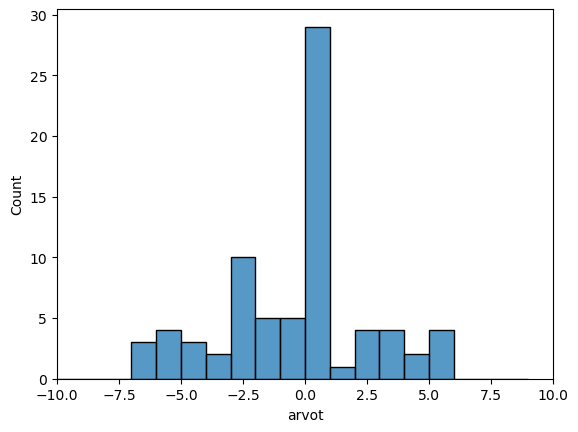
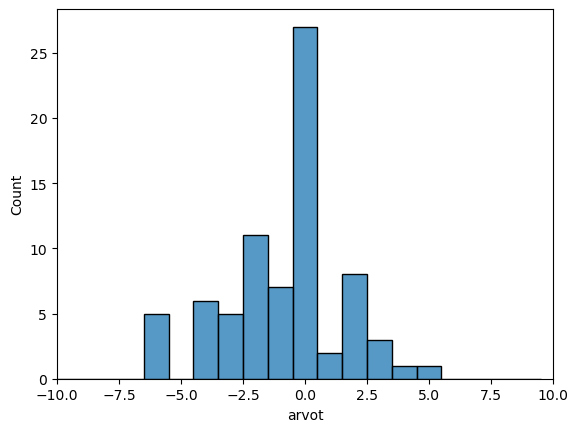
yle3

diff --git a/_pages/year-archive.html b/_pages/year-archive.html
@@ -1,10 +1,11 @@
 ---
 layout: archive
-permalink: /year-archive/
+permalink: /
 title: "Blog posts"
 author_profile: true
 redirect_from:
   - /wordpress/blog-posts/
+  - /year-archive/
 ---
 
 {% include base_path %}

diff --git a/_posts/2025-6-30-ylen-uutisointi.md b/_posts/2025-6-30-ylen-uutisointi.md
@@ -9,13 +9,16 @@ tags:
   - arvot
 ---
 
-Ylen uutisointia on toisinaan arvosteltu vihervasemistolaiseksi ja liian arvoliberaaliksi. Tätä voi analysoida melko neutraalisti suurella kielimallilla. 
+Ylen uutisointia on toisinaan arvosteltu vihervasemistolaiseksi ja liian arvoliberaaliksi. Mutta onko näin? Tätä voi analysoida melko neutraalisti suurella kielimallilla. 
+
+![YLEn uutisten poliittisuuden jakauma](/images/YLE/jakauma.png)<br>
+_Kuvio 1. YLEn uutisten yhteisjakauma._
 
 1 Menetelmä ja aineisto
 ===
 
 Suurella kielimallilla voi luokitella kirjotuksia. Tässä käytetään Anthropicin Claude Opus 4.0 -mallia.
-Tarkastelemme 83 uutista YLEn verkkosivuilla, jotka haettiin scraperilla. Aineistosta on poistettu 7 uutista, joita scraper ei onnistunut keräämään kunnolla (pääosin vain otsikko tuli mukaan ja varsinainen teksti jäi pois). Lisäksi yhdessä tapauksessa (numero 11) Claude ei osannut tuottaa numeerista arviota.
+Tarkastelemme 83 uutista YLEn verkkosivuilla, jotka haettiin scraperilla. Aineistosta on poistettu 6 uutista, joita scraper ei onnistunut keräämään kunnolla (pääosin vain otsikko tuli mukaan ja varsinainen teksti jäi pois). Lisäksi yhdessä tapauksessa (numero 11) Claude ei osannut tuottaa numeerista arviota.
 Aineisto ja tulokset ovat liitteenä blogin lopussa.
 
 Promptit, joita analyysissä on käytetty ovat kaikessa yksinkertaisuudessaan tällainen (mitään muuta promptia ei analyysissä käytetä):
@@ -32,24 +35,21 @@ Jokaista tekstiä varten keskustelu avataan uudestaan, jotta aiemmat vastaukset 
 2 Arvot ja poliittisuus
 ===
 
-Kirjoitusten arvojen keskiarvo on -1,45 ja mediaani -0,5. Asteikko on -10 -- +10, joten keskimäärin kirjoitusten arvot ovat lähellä neutraalia, vaikka ne painottuvat arvoliberaaliin suuntaan.
+Kirjoitusten arvojen keskiarvo on -0,84 ja mediaani 0,0. Asteikko on -10 -- +10, joten keskimäärin kirjoitusten arvot ovat lähellä neutraalia, vaikka ne painottuvat arvoliberaaliin suuntaan.
 
 ![YLEn uutisten arvojen jakauma](/images/YLE/arvot.png)<br>
-_Kuvio 1. YLEn uutisten arvojen jakauma._
+_Kuvio 2. YLEn uutisten arvojen jakauma._
 
-Arvojen jakauma painottuu arvoliberaaliin suuntaan.
+Arvojen jakauma painottuu arvoliberaaliin suuntaan. Kuitenkin selvästi arvokonservatiivisia havaintoja on myös joukossa.
 
 ![YLEn uutisten poliittisuuden jakauma](/images/YLE/poliittinen.png)<br>
-_Kuvio 2. YLEn uutisten poliittisuuden jakauma._
+_Kuvio 3. YLEn uutisten poliittisuuden jakauma._
 
-Kirjoitusten poliittisen näkökulman keskiarvo on -1,45 ja mediaani -0,5. Asteikko on -10 -- +10, joten keskimäärin kirjoitusten arvot ovat lähellä neutraalia, vaikka ne painottuvat arvoliberaaliin suuntaan.
+Kirjoitusten poliittisen näkökulman keskiarvo on -0,63 ja mediaani 0,0. Asteikko on -10 -- +10, joten keskimäärin kirjoitusten arvot ovat lähellä neutraalia, vaikka ne painottuvat arvoliberaaliin suuntaan.
 
 Poliittisten näkökulmien jakauma painottuu vasemmistoon.
 
-![YLEn uutisten poliittisuuden jakauma](/images/YLE/jakauma.png)<br>
-_Kuvio 3. YLEn uutisten yhteisjakauma._
-
-Arvojen ja polittiisen näkökulman Yhteisjakauma...
+Arvojen ja polittiisen näkökulman Yhteisjakauma (Kuvio 1) näyttää että suurin osa uutisista on vasemmisto/arvoliberaali - oikeisto/arvokonservatismi -akselilla. Yhteisjakaumassa on vähän havaintoja oikeisto/arvoliberaali -neljänneksestä tai vasemmisto/arvokonservatiivi -neljänneksestä. Tämä sama ilmiö näkyy vaalien yhteydessä tehdyissä ehdokkaiden arvokartoissa.
 
 3 Esimerkkejä tuloksista
 ===
@@ -57,7 +57,7 @@ Arvojen ja polittiisen näkökulman Yhteisjakauma...
 3.1 Sudenmetsästys
 ==
 
-Esimerkiksi sudenmetsästyksestä kertovat juttu (https://yle.fi/a/74-20165944) arvioidaan arvokonservatiiviseksi (+5) ja lievästi oikeistolaiseksi (+3), koska 
+Sudenmetsästyksestä kertova juttu (https://yle.fi/a/74-20165944) arvioidaan arvokonservatiiviseksi (+5) ja lievästi oikeistolaiseksi (+3).
 
 > Kirjoitus käsittelee sudenmetsästyksen mahdollistamista, mikä heijastaa jossain määrin arvokonservatiivista näkemystä, jossa korostetaan ihmisen oikeutta hallita luontoa ja maaseudun elinkeinojen suojelua. Teksti on kuitenkin neutraalisti muotoiltu, eikä siinä oteta voimakkaasti kantaa suuntaan tai toiseen. Arvoliberaali näkökulma korostaisi todennäköisesti enemmän luonnonsuojelua ja eläinten oikeuksia.
 
@@ -65,26 +65,44 @@ Esimerkiksi sudenmetsästyksestä kertovat juttu (https://yle.fi/a/74-20165944) 
 
 3.2 Vaalirahoitus
 ==
-vastaavasti vaalirahoituksesta kertova juttu (https://yle.fi/a/74-20167070) arvioidaan arvoliberaaliksi (-5) ja vasemmistolaisesta näkökulmasta kirjoitetuksi (-5), koska
+Vaalirahoituksesta kertova juttu (https://yle.fi/a/74-20167070) arvioidaan arvoliberaaliksi (-5) ja vasemmistolaisesta näkökulmasta kirjoitetuksi (-5).
 
 > Kirjoitus on kirjoitettu vasemmistolaisesta näkökulmasta. Tämä näkyy siinä, että oppositiopuolueiden (SDP, Vihreät) kriittiset näkemykset nostetaan keskeisesti esiin, erityisesti Tiina Elon kommentti siitä, että vaalit eivät saa olla rahalla ratkaistava kilpailu. Myös oikeusministeriön ja Transparency Internationalin vastustus mainitaan. Kokoomuksen perustelut muutokselle esitetään lyhyesti ilman syvempää analyysiä, mikä viittaa kriittiseen näkökulmaan hallituksen toimintaa kohtaan.
 
 > Kirjoitus on kirjoitettu arvoliberaalista näkökulmasta, sillä siinä korostetaan poliittisen rahoituksen avoimuutta ja läpinäkyvyyttä. Kirjoituksessa tuodaan kriittisesti esiin ilmoitusrajan nostaminen ja nostetaan esiin opposition ja järjestöjen huolta vaalirahoituksen avoimuuden vähenemisestä. Avoimuuden ja demokraattisen läpinäkyvyyden korostaminen on tyypillisesti arvoliberaali positio.
 
-3.3 Miinat
+3.3 Maamiinat
 ==
 
-- arvot: 4
-- poliittinen suuntaus: 5
+Maamiinakiellosta kertovat juttu (https://yle.fi/a/74-20167477) arvioidaan lievästi arvokonservatiiviseksi (+2) ja näkökulmaltaan maltillisen oikeistolaiseksi (+3).
 
-> Kirjoitus on miltei neutraali uutismaisessa sävyssään, mutta siinä ei kyseenalaisteta miinojen käyttöönottoa humanitääriseltä kannalta. Siitä puuttuvat ihmisoikeusjärjestöjen huolet siviileistä ja vammoista. Vasemmistoliiton ja SPR:n kriittinen kanta mainitaan vain ohimennen. Tämä viittaa arvokonservatiiviseen painotukseen, jossa turvallisuus ja taloudelliset mahdollisuudet menevät humanitääristen näkökohtien edelle.
+> Kirjoitus on arvoulottuvuudeltaan melko neutraali, mutta suhtautuminen jalkaväkimiinojen valmistukseen ja vientiin on pragmaattinen ja elinkeinoelämää korostava. Kirjoituksessa ei ilmene huolta humanitaarisista kysymyksistä tai kansainvälisestä sopimuksesta irtautumisen eettisistä ulottuvuuksista. Vähäinen kriittisyys viittaa lievästi arvokonservatiiviseen näkökulmaan, jossa turvallisuus- ja talousnäkökulmat ohittavat humanitaariset arvot.
 
-> Kirjoitus keskittyy positiivisesti puolustusteollisuuden liiketoimintamahdollisuuksiin ja vientipotentiaaliin. Keskustan edustajan näkemykset esitetään kritiikittä. Tekstissä korostetaan osaamista ja tuotantokykyä, ei työntekijöiden oikeuksia tai sosiaalisia vaikutuksia. Mainehaitat käsitellään lähinnä liiketoiminnallisina riskeinä, ei eettisinä ongelmina. Nämä viittaavat maltilliseen oikeistolaiseen näkökulmaan.
+> Kirjoitus korostaa vientipotentiaalia, yritystoimintaa ja suomalaisen puolustusteollisuuden mahdollisuuksia. Valiokunnan puheenjohtajan (Keskusta) sitaatit edustavat pragmaattista, oikeistoliberaalia näkemystä, jossa korostetaan elinkeinovapautta ja markkinamahdollisuuksia. Vasemmistoliiton kriittinen eriävä mielipide mainitaan vain lyhyesti. Kokonaisuudessaan teksti edustaa maltillista oikeistolaista näkökulmaa, jossa taloudelliset mahdollisuudet painottuvat.
 
-4 Analyysin puutteet
+3.4 Sofia Virta
+==
+
+Sofia Virraste kertova juttu () arvioidaan arvoliberaaliksi (-6) ja selvästi vasemmistolaiseksi (-7).
+
+> Kirjoitus on selkeästi arvoliberaalista näkökulmasta. Tämä näkyy erityisesti Sofia Virtan siteeraamisessa, jossa puhutaan oikeudesta 'rakastaa ketä haluaa' ja liberaalien arvojen puolustamisesta. Lisäksi korostetaan tasa-arvo- ja ihmisoikeuskysymyksiä. Kirjoitus ei kyseenalaista näitä arvoja vaan esittää ne myönteisinä tavoitteina.
+> Kirjoitus on vahvasti vasemmistolainen. Keskeiset teemat ovat hyvinvointivaltion puolustaminen, sosiaaliturvasta ja koulutuksesta leikkaamisen vastustaminen, vihreä verouudistus (ympäristölle haitallisten yritystukien leikkaaminen), sekä hallituksen leikkauspolitiikan kritiikki. Puolustusmenojen nostamista kritisoidaan, koska rahat ovat 'pois muista hyvinvointivaltion palveluista'. Nämä ovat klassisia vasemmistolaisia teemoja.
+
+3.5 Mika Poutala
+==
+
+Mika Poutalasta kertova juttu () arvioidaan arvoneutraaliksi (-6) ja poliittisesti neutraaliksi (-7).
+
+> Teksti on neutraali reportaasi henkilön liikuntaharrastuksista ja ministerinimityksen kuvaus. Siinä ei ole arvovalintoihin viittaavia elementtejä tai kannanottoja yhteiskunnallisiin arvoihin. Keskittyy vain faktojen esittämiseen henkilön taustoista ja tavoista.
+
+> Teksti ei ota kantaa vasemmisto-oikeisto-akseliin liittyviin kysymyksiin. Se on puhdas henkilöön liittyvä faktakuvaus ilman poliittisia kannanottoja tai viittauksia talouspolitiikkaan, hyvinvointivaltioon tai muihin poliittisiin kysymyksiin. Kristillisdemokraattinen puoluetausta mainitaan, mutta sitä ei arvoteta.
+
+4 Analyysistä
 ===
 
-Tämän blogin analyysin ei ole tarkoitus olla kattava. Aineistossa oli vain 83 juttua, joista 76 päätyi lopulliseen analyysiin. Laajempi tutkimus kertoisi paremmin, miten neutraalia Ylen uutisointi on ja paikallistaisi mahdolliset ylilyönnit eri suuntiin. Samaa metodologiaa voi käyttä helposti muihinkin viestintävälineisiin.
+Tämän blogin analyysin ei ole tarkoitus olla kattava. Aineistossa oli vain 83 juttua, joista 76 päätyi lopulliseen analyysiin. Laajempi tutkimus kertoisi paremmin, miten neutraalia Ylen uutisointi on ja paikallistaisi mahdolliset ylilyönnit eri suuntiin. Samaa metodologiaa voi käyttä helposti muihinkin viestintävälineisiin. 
+
+Clauden vastaukset muuttuvat eri ajokerroilla hieman, vaikka promptit ja aineistot pysyvät samoina. Vaihtelu ei kuitenkaan vaikuta oleva kovin suurta.
 
 5 Yhteenveto
 ===
@@ -95,83 +113,84 @@ Onko Ylen uutiskirjoittaminen epäpoliittista ja arvovapaata? Ei, mutta se on ky
 Liite
 ===
 
-
-|    | otsikko                                                                                                                      | Linkki                       |   arvot |   poliittinen suuntaus |
-|---:|:-----------------------------------------------------------------------------------------------------------------------------|:-----------------------------|--------:|-----------------------:|
-|  0 | Päätös eduskunnan pääsihteeri Antti Pelttarin hyllyttämisestä siirtyi ensi keskiviikkoon                                     | https://yle.fi/a/74-20167571 |     1   |                    2   |
-|  1 | Mikko Polvinen ehdolla Perussuomalaisten kolmanneksi varapuheenjohtajaksi                                                    | https://yle.fi/a/74-20167573 |     0   |                    2   |
-|  2 | Valiokunta visioi jalkaväkimiinoista vientituotetta Suomelle                                                                 | https://yle.fi/a/74-20167477 |     5   |                    5   |
-|  3 | SDP:n Tuppurainen: Ryhmä teki päätöksen tukea miinasopimuksesta lähtemistä, ja se sitoo kaikkia edustajia                    | https://yle.fi/a/74-20167519 |     0   |                    0   |
-|  4 | Professori katsoo, että eduskunnan pääsihteeri Antti Pelttari tulisi pidättää virastaan – epäillään virkarikoksista          | https://yle.fi/a/74-20167469 |    -1   |                    0   |
-|  5 | Saamelaislaki repii hallituspuolueiden rivejä, RKP:n Adlercreutz pitää perussuomalaisten irtiottoja valitettavina            | https://yle.fi/a/74-20167423 |     4   |                   -2   |
-|  6 | ”Jos joku on alisuoriutunut, se on hallitus” – oppositio arvosteli irtisanomisten helpottamista kyselytunnilla               | https://yle.fi/a/74-20167394 |    -5   |                   -6   |
-|  7 | Hämmentävä tilanne: vasemmistoliitto ei kerro, onko kansanedustaja Johannes Yrttiaho yhä puolueen jäsen                      | https://yle.fi/a/74-20167392 |     0   |                    0   |
-|  8 | Puolustusvaliokunta puoltaa miinasopimuksesta irtautumista                                                                   | https://yle.fi/a/74-20167408 |     3   |                    5   |
-|  9 | Presidentti Stubb osallistuu Bilderberg-tapaamiseen Tukholmassa – mukana myös Sanna Marin                                    | https://yle.fi/a/74-20167377 |    -3   |                    3   |
-| 10 | Elinkeinoministeriksi nousee pian perussuomalainen fysiikan tohtori, jota kehutaan jopa oppositiosta                         | https://yle.fi/a/74-20165321 |     2   |                   -3   |
-| 11 | Netin halpakauppojen suitsimista vaativa kansalaisaloite menee eduskuntaan                                                   | https://yle.fi/a/74-20167299 |   nan   |                  nan   |
-| 12 | Ex-ministeri Carl Haglund valittiin Aktian toimitusjohtajaksi                                                                | https://yle.fi/a/74-20167326 |     0   |                    0   |
-| 13 | Israelin parlamentti torppasi opposition aloitteen parlamentin hajottamisesta                                                | https://yle.fi/a/74-20167286 |     0   |                    0   |
-| 14 | Sebastian Tynkkynen hakee perussuomalaisten kolmanneksi varapuheenjohtaksi                                                 | https://yle.fi/a/74-20167274 |     3   |                    6   |
-| 15 | HS: Lulu Ranteen mukaan alaikäisten yöajeluun ajetaan lakimuutosta jo tänä vuonna                                            | https://yle.fi/a/74-20167235 |     3   |                    1   |
-| 16 | Eduskunta hyväksyi esityksen saamelaiskäräjälain muuttamisesta ensimmäisessä käsittelyssä                                    | https://yle.fi/a/74-20167217 |    -4   |                   -3   |
-| 17 | Turun tunnin junasta neuvotellaan jälleen tauon jälkeen – rahoituksesta puuttuu 500 miljoonaa euroa                          | https://yle.fi/a/74-20167142 |     0   |                    0   |
-| 18 | Kokoomuslainen Multialta ja vasemmistolainen Torniosta kertovat, miksi allekirjoittivat Sinimustan liikkeen kannattajakortit | https://yle.fi/a/74-20166905 |    -7   |                   -5   |
-| 19 | Eduskunta päätti: Suurempia summia vaalirahaa voi jatkossa antaa nimettömästi                                                | https://yle.fi/a/74-20167070 |    -2   |                   -1   |
-| 20 | Uusnatsit yrittivät järjestää salaa kesätapahtuman, mutta Sinimustan liikkeen aktiivit paljastivat vahingossa osallistujia   | https://yle.fi/a/74-20167106 |    -6   |                   -5   |
-| 21 | Häkkänen Ylelle: Kaikki puolueet otetaan sittenkin mukaan päättämään puolustusmenoista                                       | https://yle.fi/a/74-20167114 |     0   |                   -2   |
-| 22 | Katso video: Eero Reijosen 24 vuoden ura puheenjohtajana päättyi Liperissä – koki ilkeilyksi ja julisti muuttavansa pois     | https://yle.fi/a/74-20166985 |    -1   |                    0   |
-| 23 | Sara Seppänen kohautti lapintakissaan eduskunnassa – haluaa tukea metsälappalaisen kulttuurin elvyttämistä                   | https://yle.fi/a/74-20166967 |     0   |                   -1   |
-| 24 | Vihreiden Hanna-Kaisa Lähde etsi rakkautta – näin kävi, kun hän löysi perussuomalaisen miehen                                | https://yle.fi/a/74-20165699 |    -3   |                   -1   |
-| 25 | Nato haluaa jäsenmaiden puolustusmenot viiteen prosenttiin BKT:sta – Yle selvitti kaikkien puolueiden kannat                 | https://yle.fi/a/74-20166824 |    -0.5 |                   -0.5 |
-| 26 | Ylen lähteet: Suomi ei ole lupaamassa Palestiinan valtion tunnustamista ensi viikon YK-kokouksessa                           | https://yle.fi/a/74-20166852 |    -3   |                    0   |
-| 27 | Kuvernööri Newsom vie Trumpin kansalliskaartipäätöksen oikeuteen – Valkoinen talo ”tyytyväinen” vastakkainasetteluun         | https://yle.fi/a/74-20166906 |    -5   |                   -4   |
-| 28 | Analyysi: Suomen turvallisuuspolitiikan johtajiin iski vauhtisokeus                                                          | https://yle.fi/a/74-20166823 |    -3   |                   -4   |
-| 29 | IL: Mauri Peltokangas ei haluakaan jatkaa perussuomalaisten varapuheenjohtajana                                           | https://yle.fi/a/74-20166995 |     0   |                    0   |
-| 30 | Amerikkalaiskenraali tyrmää kansalliskaartin lähettämisen Los Angelesiin                                                     | https://yle.fi/a/74-20166874 |    -2   |                   -3   |
-| 31 | Saarikolle ja Nurmiselle vapautus kansanedustajan tehtävästä                                                                 | https://yle.fi/a/74-20166984 |     0   |                    0   |
-| 32 | Kultaranta-keskustelut alkavat ensi maanantaina – teemana muuttuva maailmanjärjestys                                         | https://yle.fi/a/74-20166853 |     0   |                    0   |
-| 33 | Vasemmistoliiton varakansanedustaja eroaa puolueesta – kritisoi Johannes Yrttiahon saamaa kohtelua                           | https://yle.fi/a/74-20166886 |    -3   |                   -6   |
-| 34 | Isotalus ja Pietilä Kokkolan johtoon                                                                                         | https://yle.fi/a/74-20166799 |     0   |                    0   |
-| 35 | Eduskunta hakee entiseltä kansanedustajalta Ano Turtiaiselta ulosotossa kymmeniätuhansia euroja                              | https://yle.fi/a/74-20166725 |     0   |                    0   |
-| 36 | Rovaniemen ympäristölautakunnan puheenjohtajiksi lyhytvuokrauksen harjoittaja ja kriitikko                                   | https://yle.fi/a/74-20166760 |    -4   |                   -3   |
-| 37 | Yhteinen kotikuntamme -ryhmä ei saanut yhtään puheenjohtajan paikkaa Ranualla, vaikka mikään ryhmä ei ole sitä suurempi      | https://yle.fi/a/74-20166757 |     0   |                    0   |
-| 38 | Oppositio vaatii laajempaa keskustelua puolustusmenojen nostosta – Häkkänen vetoaa kiireeseen                                | https://yle.fi/a/74-20166708 |    -5   |                    4   |
-| 39 | Mauri Pekkarinen valittiin odotetusti Jyväskylän kaupunginvaltuuston puheenjohtajaksi                                      | https://yle.fi/a/74-20166752 |     0   |                    0   |
-| 40 | Pitkäaikaisen kaupunginjohtajan potkut käynnistivät Savonlinnassa täydellisen johdon uudistumisen                           | https://yle.fi/a/74-20164531 |    -1   |                   -1   |
-| 41 | Tutkijat: Keskustelussa puolustusmenoista tapahtui käänne – opposition kritiikki mursi yksimielisyyden                      | https://yle.fi/a/74-20166441 |     0   |                   -3   |
-| 42 | ”Teemmekö jotain väärin?” – vihreiden edustajat pohtivat keinoja kannatusalhon murtamiseksi                                  | https://yle.fi/a/74-20166440 |    -6   |                   -6   |
-| 43 | Matthew Kern pyörittää kahvilaa Helsingissä, mutta silti häntä saattaa uhata häätö Suomesta uuden lain takia                 | https://yle.fi/a/74-20166230 |    -6   |                   -4   |
-| 44 | Analyysi: Miten vihreät saisi piristettyä kannatustaan, joka muistuttaa kuolleen sydänkäyrää?                                | https://yle.fi/a/74-20166386 |    -3   |                   -2   |
-| 45 | Hallitus linjasi isoista korotuksista puolustusmenoihin – oppositio älähti                                                   | https://yle.fi/a/74-20166398 |     0   |                   -3   |
-| 46 | Vihreät sai uudet varapuheenjohtajat: Allu Pyhälammi, Jenni Pitko ja Shawn Huff                                              | https://yle.fi/a/74-20165964 |    -3   |                   -4   |
-| 47 | Orpo Venäjä-pakotteista: Nyt pitäisi saada päätöksiä, meidän pitää pakottaa Putin neuvottelupöytään                          | https://yle.fi/a/74-20166342 |    -2   |                    3   |
-| 48 | Vihreiden Tynkkynen tyytymätön hallitukseen: Puolustusmenojen nostosta miljardeilla pitää keskustella enemmän                | https://yle.fi/a/74-20165910 |    -7   |                   -7   |
-| 49 | Urheiluministerinä aloittava Mika Poutala juoksee 15 kilometrin työmatkansa – aikoo vaikuttaa erityisesti apurahoihin        | https://yle.fi/a/74-20162150 |    -7   |                   -7   |
-| 50 | Brittitutkija Stubbin roolista maailmanpolitiikassa: ”Tärkeät suunnitelmat ovat tosiasiassa syntyneet Helsingissä”          | https://yle.fi/a/74-20163672 |     0   |                    0   |
-| 51 | Vihreiden puoluekokous alkaa Hämeenlinnassa                                                                                  | https://yle.fi/a/74-20166328 |     0   |                    0   |
-| 52 | Suomen Lappiin tuleva Nato-joukko alkaa rakentua: Britannia mukana                                                           | https://yle.fi/a/74-20166307 |     2   |                    3   |
-| 53 | Saamelaiskäräjien hallitus hyväksyi perustuslakivaliokunnan muutosehdotukset                                                 | https://yle.fi/a/74-20166308 |    -3   |                   -2   |
-| 54 | Puolustusmenot nousemassa miljardeilla – Orpo: Venäjän uhan takia Suomen puolustus on pakko hoitaa                           | https://yle.fi/a/74-20166298 |     0   |                    5   |
-| 55 | Vihreiden venäläinen ehdokas ei kelvannut Lieksan kaupungin elinkeinoyhtiöön – puolue syyttää syrjinnästä                   | https://yle.fi/a/74-20166288 |     3   |                   -2   |
-| 56 | Lentoliikenteen työriidassa ei sopua perjantaina, sovittelu jatkuu maanantaina                                               | https://yle.fi/a/74-20166283 |     0   |                   -1   |
-| 57 | Puheenjohtaja uskoo, että ongelmat Turun vasemmistoliitossa ovat vihdoin ohi: ”Tämä on ollut tosi pitkä tie”                | https://yle.fi/a/74-20166133 |     0   |                   -3   |
-| 58 | Analyysi: Kansanedustajia lähtee eduskunnasta kuin hollituvasta, mutta ei Arkadianmäestä kannata vankilaakaan tehdä          | https://yle.fi/a/74-20166141 |     5   |                    1   |
-| 59 | Ilmari Nurminen pyysi eroa eduskunnasta                                                                                      | https://yle.fi/a/74-20166275 |     0   |                    0   |
-| 60 | Oliver Stubb erottui ”selvästi muista hakijoista” – sai harjoittelupaikan presidentti-isänsä erikoisalalta                  | https://yle.fi/a/74-20166232 |     0   |                    0   |
-| 61 | Uudenkaupungin ääni palaa eduskuntaan – Mauri Kontu ottaa haasteen vastaan Annika Saarikon seuraajana                        | https://yle.fi/a/74-20166199 |     2   |                    4   |
-| 62 | Alankomaissa äänestetään uudesta hallituksesta lokakuussa                                                                    | https://yle.fi/a/74-20166219 |     0   |                    0   |
-| 63 | Hallitus sai eduskunnan luottamuksen välikysymysäänestyksessä                                                                | https://yle.fi/a/74-20166179 |     0   |                   -3   |
-| 64 | Annika Saarikko jättää valtakunnanpolitiikan ja siirtyy YTHS:n toimitusjohtajaksi                                            | https://yle.fi/a/74-20166132 |    -1   |                    0   |
-| 65 | Sofia Virta tietää, milloin ei kannata puhua ilmastokriisistä – nyt hän kertoo puolueen talousteesit                         | https://yle.fi/a/74-20163230 |    -6   |                   -6   |
-| 66 | Kontiolahdella hylättiin eniten ääniä kevään kuntavaaleissa – katso missä kunnissa ääniä mitätöitiin eniten                  | https://yle.fi/a/74-20166096 |     0   |                    0   |
-| 67 | USU: Hyvinvointialueet hakevat joukolla lisää rahaa                                                                          | https://yle.fi/a/74-20166089 |     0   |                   -3   |
-| 68 | Analyysi: Trump sai tahtonsa läpi Natossa                                                                                    | https://yle.fi/a/74-20166052 |     2   |                    4   |
-| 69 | Trump ja Saksan Merz kohtasivat Valkoisessa talossa – ”Antaa lapsien tapella”, totesi Trump Ukrainasta                       | https://yle.fi/a/74-20166047 |    -3   |                   -2   |
-| 70 | Hallitus tiukentaa pysyvän oleskeluluvan ehtoja – edellytyksiin kuuluu kielitaito, bonusta 40 000 euron vuosituloista        | https://yle.fi/a/74-20166033 |     5   |                    5   |
-| 71 | Kansanedustaja Karoliina Partanen kertoo joutuneensa seksuaalisen häirinnän kohteeksi – oikeudenkäynti maanantaina           | https://yle.fi/a/74-20165996 |    -2   |                    2   |
-| 72 | Ministeriö haluaa, että susia voisi metsästää Suomessa jo ensi vuonna                                                        | https://yle.fi/a/74-20165944 |     4   |                    3   |
-| 73 | Katso paljon puhuva video, jolla ministerit kommentoivat rasismikoulutusta – Wille Rydman vastaa pitkän hiljaisuuden jälkeen | https://yle.fi/a/74-20165908 |    -3   |                   -2   |
-| 74 | Halla-aho: Kukaan ei epäile Antti Pelttaria maanpetoksesta, eduskunnan kansliatoimikunta päätti lisäkuulemisista             | https://yle.fi/a/74-20165925 |     0   |                    2   |
-| 75 | Suomeakin odottaa puolustuksen miljardilasku – Häkkänen: Seuraava hallitus voi rahoittaa tekemällä cocktailin                | https://yle.fi/a/74-20165890 |     5   |                    4   |
-| 76 | Analyysi: Ukrainan taitava drooni-isku voi johtaa sodan kiihtymiseen                                                         | https://yle.fi/a/74-20165854 |    -2   |                   -3   |
+|    | otsikko                                                                                                                       | Linkki                            |   arvot |   poliittinen suuntaus |
+|---:|:------------------------------------------------------------------------------------------------------------------------------|:----------------------------------|--------:|-----------------------:|
+|  0 | Päätös eduskunnan pääsihteeri Antti Pelttarin hyllyttämisestä siirtyi ensi keskiviikkoon                                      | https://yle.fi/a/74-20167571      |    -2   |                    0   |
+|  1 | Mikko Polvinen ehdolla Perussuomalaisten kolmanneksi varapuheenjohtajaksi                                                     | https://yle.fi/a/74-20167573      |     3   |                    5   |
+|  2 | Valiokunta visioi jalkaväkimiinoista vientituotetta Suomelle                                                                  | https://yle.fi/a/74-20167477      |     2   |                    3   |
+|  3 | SDP:n Tuppurainen: Ryhmä teki päätöksen tukea miinasopimuksesta lähtemistä, ja se sitoo kaikkia edustajia                     | https://yle.fi/a/74-20167519      |     0   |                    0   |
+|  4 | Professori katsoo, että eduskunnan pääsihteeri Antti Pelttari tulisi pidättää virastaan – epäillään virkarikoksista           | https://yle.fi/a/74-20167469      |     0   |                    0   |
+|  5 | Saamelaislaki repii hallituspuolueiden rivejä, RKP:n Adlercreutz pitää perussuomalaisten irtiottoja valitettavina             | https://yle.fi/a/74-20167423      |    -6   |                   -3   |
+|  6 | ”Jos joku on alisuoriutunut, se on hallitus” – oppositio arvosteli irtisanomisten helpottamista kyselytunnilla                | https://yle.fi/a/74-20167394      |    -2   |                   -7   |
+|  7 | Hämmentävä tilanne: vasemmistoliitto ei kerro, onko kansanedustaja Johannes Yrttiaho yhä puolueen jäsen                       | https://yle.fi/a/74-20167392      |     0   |                   -2   |
+|  8 | Puolustusvaliokunta puoltaa miinasopimuksesta irtautumista                                                                    | https://yle.fi/a/74-20167408      |     5   |                    4   |
+|  9 | Presidentti Stubb osallistuu Bilderberg-tapaamiseen Tukholmassa – mukana myös Sanna Marin                                     | https://yle.fi/a/74-20167377      |     0   |                    0   |
+| 10 | Elinkeinoministeriksi nousee pian perussuomalainen fysiikan tohtori, jota kehutaan jopa oppositiosta                          | https://yle.fi/a/74-20165321      |    -4   |                   -3   |
+| 11 | Netin halpakauppojen suitsimista vaativa kansalaisaloite menee eduskuntaan                                                    | https://yle.fi/a/74-20167299      |   nan   |                  nan   |
+| 12 | Ex-ministeri Carl Haglund valittiin Aktian toimitusjohtajaksi                                                                 | https://yle.fi/a/74-20167326      |     0   |                    0   |
+| 13 | Israelin parlamentti torppasi opposition aloitteen parlamentin hajottamisesta                                                 | https://yle.fi/a/74-20167286      |     0   |                    0   |
+| 14 | Sebastian Tynkkynen hakee perussuomalaisten kolmanneksi varapuheenjohtaksi                                                  | https://yle.fi/a/74-20167274      |     2   |                    6   |
+| 15 | HS: Lulu Ranteen mukaan alaikäisten yöajeluun ajetaan lakimuutosta jo tänä vuonna                                             | https://yle.fi/a/74-20167235      |     3   |                    2   |
+| 16 | Eduskunta hyväksyi esityksen saamelaiskäräjälain muuttamisesta ensimmäisessä käsittelyssä                                     | https://yle.fi/a/74-20167217      |     2   |                   -2   |
+| 17 | Turun tunnin junasta neuvotellaan jälleen tauon jälkeen – rahoituksesta puuttuu 500 miljoonaa euroa                           | https://yle.fi/a/74-20167142      |    -2   |                   -1   |
+| 18 | Kokoomuslainen Multialta ja vasemmistolainen Torniosta kertovat, miksi allekirjoittivat Sinimustan liikkeen kannattajakortit  | https://yle.fi/a/74-20166905      |    -6   |                   -4   |
+| 19 | Eduskunta päätti: Suurempia summia vaalirahaa voi jatkossa antaa nimettömästi                                                 | https://yle.fi/a/74-20167070      |    -3.5 |                   -6   |
+| 20 | Uusnatsit yrittivät järjestää salaa kesätapahtuman, mutta Sinimustan liikkeen aktiivit paljastivat vahingossa osallistujia    | https://yle.fi/a/74-20167106      |    -6   |                   -5   |
+| 21 | Häkkänen Ylelle: Kaikki puolueet otetaan sittenkin mukaan päättämään puolustusmenoista                                        | https://yle.fi/a/74-20167114      |     0   |                    1   |
+| 22 | Katso video: Eero Reijosen 24 vuoden ura puheenjohtajana päättyi Liperissä – koki ilkeilyksi ja julisti muuttavansa pois      | https://yle.fi/a/74-20166985      |     0   |                    0   |
+| 23 | Sara Seppänen kohautti lapintakissaan eduskunnassa – haluaa tukea metsälappalaisen kulttuurin elvyttämistä                    | https://yle.fi/a/74-20166967      |    -2.5 |                   -2   |
+| 24 | Vihreiden Hanna-Kaisa Lähde etsi rakkautta – näin kävi, kun hän löysi perussuomalaisen miehen                                 | https://yle.fi/a/74-20165699      |    -4   |                   -1   |
+| 25 | Nato haluaa jäsenmaiden puolustusmenot viiteen prosenttiin BKT:sta – Yle selvitti kaikkien puolueiden kannat                  | https://yle.fi/a/74-20166824      |     1   |                    0   |
+| 26 | Ylen lähteet: Suomi ei ole lupaamassa Palestiinan valtion tunnustamista ensi viikon YK-kokouksessa                            | https://yle.fi/a/74-20166852      |     0   |                    0   |
+| 27 | Kuvernööri Newsom vie Trumpin kansalliskaartipäätöksen oikeuteen – Valkoinen talo ”tyytyväinen” vastakkainasetteluun          | https://yle.fi/a/74-20166906      |    -3   |                   -4   |
+| 28 | Analyysi: Suomen turvallisuuspolitiikan johtajiin iski vauhtisokeus                                                           | https://yle.fi/a/74-20166823      |    -2   |                   -3   |
+| 29 | IL: Mauri Peltokangas ei haluakaan jatkaa perussuomalaisten varapuheenjohtajana                                            | https://yle.fi/a/74-20166995      |     0   |                    3   |
+| 30 | Amerikkalaiskenraali tyrmää kansalliskaartin lähettämisen Los Angelesiin                                                      | https://yle.fi/a/74-20166874      |    -6   |                   -7   |
+| 31 | Saarikolle ja Nurmiselle vapautus kansanedustajan tehtävästä                                                                  | https://yle.fi/a/74-20166984      |     0   |                    0   |
+| 32 | Kultaranta-keskustelut alkavat ensi maanantaina – teemana muuttuva maailmanjärjestys                                          | https://yle.fi/a/74-20166853      |     0   |                    0   |
+| 33 | Tasavallan presidentti Alexander Stubbin isännöimät Kultaranta-keskustelut ensi viikolla suorana Yle TV1:ssä ja Yle Areenassa | https://yle.fi/aihe/a/20-10008795 |   nan   |                  nan   |
+| 34 | Vasemmistoliiton varakansanedustaja eroaa puolueesta – kritisoi Johannes Yrttiahon saamaa kohtelua                            | https://yle.fi/a/74-20166886      |    -1   |                   -7   |
+| 35 | Isotalus ja Pietilä Kokkolan johtoon                                                                                          | https://yle.fi/a/74-20166799      |     0   |                    0   |
+| 36 | Eduskunta hakee entiseltä kansanedustajalta Ano Turtiaiselta ulosotossa kymmeniätuhansia euroja                               | https://yle.fi/a/74-20166725      |     0   |                    0   |
+| 37 | Rovaniemen ympäristölautakunnan puheenjohtajiksi lyhytvuokrauksen harjoittaja ja kriitikko                                    | https://yle.fi/a/74-20166760      |     1   |                   -3   |
+| 38 | Yhteinen kotikuntamme -ryhmä ei saanut yhtään puheenjohtajan paikkaa Ranualla, vaikka mikään ryhmä ei ole sitä suurempi       | https://yle.fi/a/74-20166757      |    -2   |                    0   |
+| 39 | Oppositio vaatii laajempaa keskustelua puolustusmenojen nostosta – Häkkänen vetoaa kiireeseen                                 | https://yle.fi/a/74-20166708      |     2   |                    3   |
+| 40 | Mauri Pekkarinen valittiin odotetusti Jyväskylän kaupunginvaltuuston puheenjohtajaksi                                       | https://yle.fi/a/74-20166752      |     0   |                    0   |
+| 41 | Pitkäaikaisen kaupunginjohtajan potkut käynnistivät Savonlinnassa täydellisen johdon uudistumisen                            | https://yle.fi/a/74-20164531      |    -2   |                   -1   |
+| 42 | Tutkijat: Keskustelussa puolustusmenoista tapahtui käänne – opposition kritiikki mursi yksimielisyyden                       | https://yle.fi/a/74-20166441      |     2   |                   -3   |
+| 43 | ”Teemmekö jotain väärin?” – vihreiden edustajat pohtivat keinoja kannatusalhon murtamiseksi                                   | https://yle.fi/a/74-20166440      |    -4   |                   -6   |
+| 44 | Matthew Kern pyörittää kahvilaa Helsingissä, mutta silti häntä saattaa uhata häätö Suomesta uuden lain takia                  | https://yle.fi/a/74-20166230      |    -4   |                   -3   |
+| 45 | Analyysi: Miten vihreät saisi piristettyä kannatustaan, joka muistuttaa kuolleen sydänkäyrää?                                 | https://yle.fi/a/74-20166386      |    -1   |                   -1   |
+| 46 | Hallitus linjasi isoista korotuksista puolustusmenoihin – oppositio älähti                                                    | https://yle.fi/a/74-20166398      |    -2   |                   -3   |
+| 47 | Vihreät sai uudet varapuheenjohtajat: Allu Pyhälammi, Jenni Pitko ja Shawn Huff                                               | https://yle.fi/a/74-20165964      |    -2   |                   -3   |
+| 48 | Orpo Venäjä-pakotteista: Nyt pitäisi saada päätöksiä, meidän pitää pakottaa Putin neuvottelupöytään                           | https://yle.fi/a/74-20166342      |    -1   |                    2   |
+| 49 | Vihreiden Tynkkynen tyytymätön hallitukseen: Puolustusmenojen nostosta miljardeilla pitää keskustella enemmän                 | https://yle.fi/a/74-20165910      |    -6   |                   -7   |
+| 50 | Urheiluministerinä aloittava Mika Poutala juoksee 15 kilometrin työmatkansa – aikoo vaikuttaa erityisesti apurahoihin         | https://yle.fi/a/74-20162150      |     0   |                    0   |
+| 51 | Brittitutkija Stubbin roolista maailmanpolitiikassa: ”Tärkeät suunnitelmat ovat tosiasiassa syntyneet Helsingissä”           | https://yle.fi/a/74-20163672      |    -1   |                    2   |
+| 52 | Vihreiden puoluekokous alkaa Hämeenlinnassa                                                                                   | https://yle.fi/a/74-20166328      |     0   |                    0   |
+| 53 | Suomen Lappiin tuleva Nato-joukko alkaa rakentua: Britannia mukana                                                            | https://yle.fi/a/74-20166307      |     2   |                    3   |
+| 54 | Saamelaiskäräjien hallitus hyväksyi perustuslakivaliokunnan muutosehdotukset                                                  | https://yle.fi/a/74-20166308      |     0   |                    0   |
+| 55 | Puolustusmenot nousemassa miljardeilla – Orpo: Venäjän uhan takia Suomen puolustus on pakko hoitaa                            | https://yle.fi/a/74-20166298      |     0   |                    6   |
+| 56 | Vihreiden venäläinen ehdokas ei kelvannut Lieksan kaupungin elinkeinoyhtiöön – puolue syyttää syrjinnästä                    | https://yle.fi/a/74-20166288      |    -4   |                   -2   |
+| 57 | Lentoliikenteen työriidassa ei sopua perjantaina, sovittelu jatkuu maanantaina                                                | https://yle.fi/a/74-20166283      |     0   |                    0   |
+| 58 | Puheenjohtaja uskoo, että ongelmat Turun vasemmistoliitossa ovat vihdoin ohi: ”Tämä on ollut tosi pitkä tie”                 | https://yle.fi/a/74-20166133      |    -2   |                   -3   |
+| 59 | Analyysi: Kansanedustajia lähtee eduskunnasta kuin hollituvasta, mutta ei Arkadianmäestä kannata vankilaakaan tehdä           | https://yle.fi/a/74-20166141      |     2   |                    0   |
+| 60 | Ilmari Nurminen pyysi eroa eduskunnasta                                                                                       | https://yle.fi/a/74-20166275      |     0   |                    0   |
+| 61 | Oliver Stubb erottui ”selvästi muista hakijoista” – sai harjoittelupaikan presidentti-isänsä erikoisalalta                   | https://yle.fi/a/74-20166232      |    -1   |                    0   |
+| 62 | Uudenkaupungin ääni palaa eduskuntaan – Mauri Kontu ottaa haasteen vastaan Annika Saarikon seuraajana                         | https://yle.fi/a/74-20166199      |     2   |                    3   |
+| 63 | Alankomaissa äänestetään uudesta hallituksesta lokakuussa                                                                     | https://yle.fi/a/74-20166219      |    -1   |                    0   |
+| 64 | Hallitus sai eduskunnan luottamuksen välikysymysäänestyksessä                                                                 | https://yle.fi/a/74-20166179      |    -1   |                   -3   |
+| 65 | Annika Saarikko jättää valtakunnanpolitiikan ja siirtyy YTHS:n toimitusjohtajaksi                                             | https://yle.fi/a/74-20166132      |     0   |                    0   |
+| 66 | Sofia Virta tietää, milloin ei kannata puhua ilmastokriisistä – nyt hän kertoo puolueen talousteesit                          | https://yle.fi/a/74-20163230      |    -3   |                   -3   |
+| 67 | Kontiolahdella hylättiin eniten ääniä kevään kuntavaaleissa – katso missä kunnissa ääniä mitätöitiin eniten                   | https://yle.fi/a/74-20166096      |     0   |                    0   |
+| 68 | USU: Hyvinvointialueet hakevat joukolla lisää rahaa                                                                           | https://yle.fi/a/74-20166089      |     0   |                   -1   |
+| 69 | Analyysi: Trump sai tahtonsa läpi Natossa                                                                                     | https://yle.fi/a/74-20166052      |     0   |                    2   |
+| 70 | Trump ja Saksan Merz kohtasivat Valkoisessa talossa – ”Antaa lapsien tapella”, totesi Trump Ukrainasta                        | https://yle.fi/a/74-20166047      |     0   |                    1   |
+| 71 | Hallitus tiukentaa pysyvän oleskeluluvan ehtoja – edellytyksiin kuuluu kielitaito, bonusta 40 000 euron vuosituloista         | https://yle.fi/a/74-20166033      |     4   |                    6   |
+| 72 | Kansanedustaja Karoliina Partanen kertoo joutuneensa seksuaalisen häirinnän kohteeksi – oikeudenkäynti maanantaina            | https://yle.fi/a/74-20165996      |    -3   |                    0   |
+| 73 | ”Kokoomus on kuin pukki kaalimaan vartijana” – oppositio ei ollut kyselytunnilla tyytyväinen hallituksen talouslääkkeisiin    | https://yle.fi/a/74-20166013      |   nan   |                  nan   |
+| 74 | Ministeriö haluaa, että susia voisi metsästää Suomessa jo ensi vuonna                                                         | https://yle.fi/a/74-20165944      |     3   |                    2   |
+| 75 | Katso paljon puhuva video, jolla ministerit kommentoivat rasismikoulutusta – Wille Rydman vastaa pitkän hiljaisuuden jälkeen  | https://yle.fi/a/74-20165908      |    -4   |                   -3   |
+| 76 | Halla-aho: Kukaan ei epäile Antti Pelttaria maanpetoksesta, eduskunnan kansliatoimikunta päätti lisäkuulemisista              | https://yle.fi/a/74-20165925      |    -2.5 |                    0.5 |
+| 77 | Suomeakin odottaa puolustuksen miljardilasku – Häkkänen: Seuraava hallitus voi rahoittaa tekemällä cocktailin                 | https://yle.fi/a/74-20165890      |     0   |                    2   |
+| 78 | Analyysi: Ukrainan taitava drooni-isku voi johtaa sodan kiihtymiseen                                                          | https://yle.fi/a/74-20165854      |    -3   |                   -2   |

diff --git a/_pages/about.md b/_pages/about.md
@@ -1,5 +1,5 @@
 ---
-permalink: /
+permalink: /about/
 title: "Antti Tanskanen"
 excerpt: "About me"
 author_profile: true
